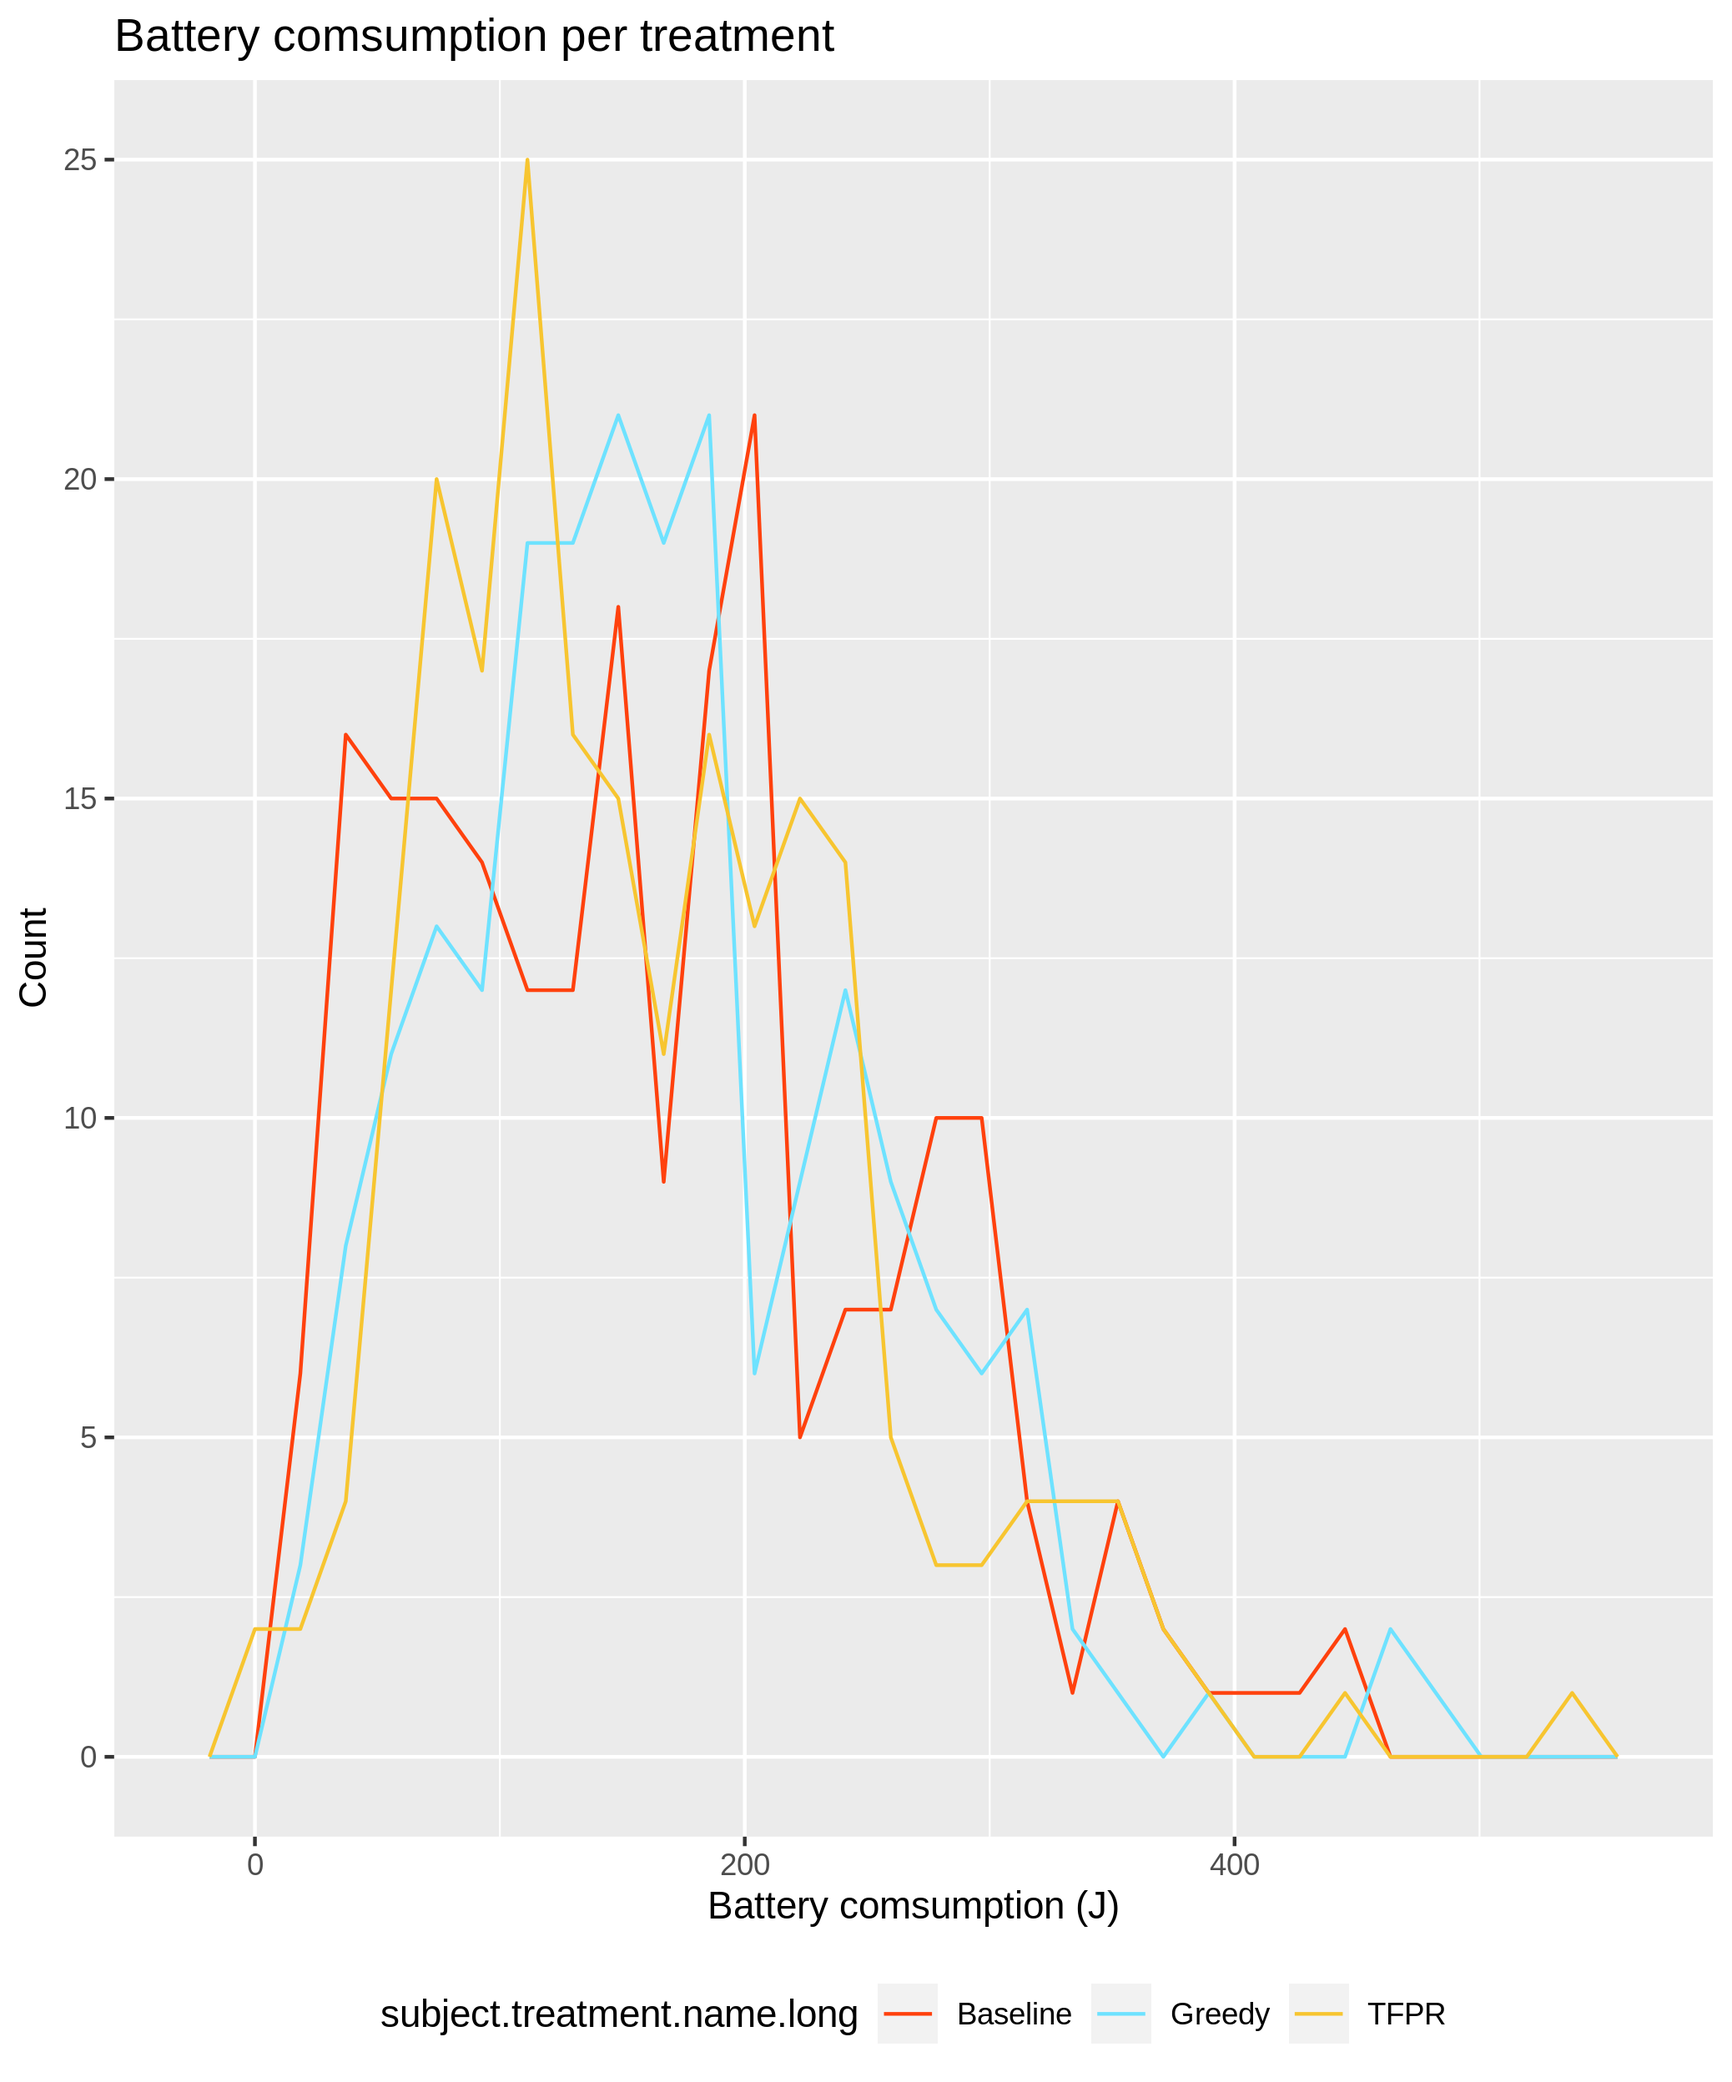
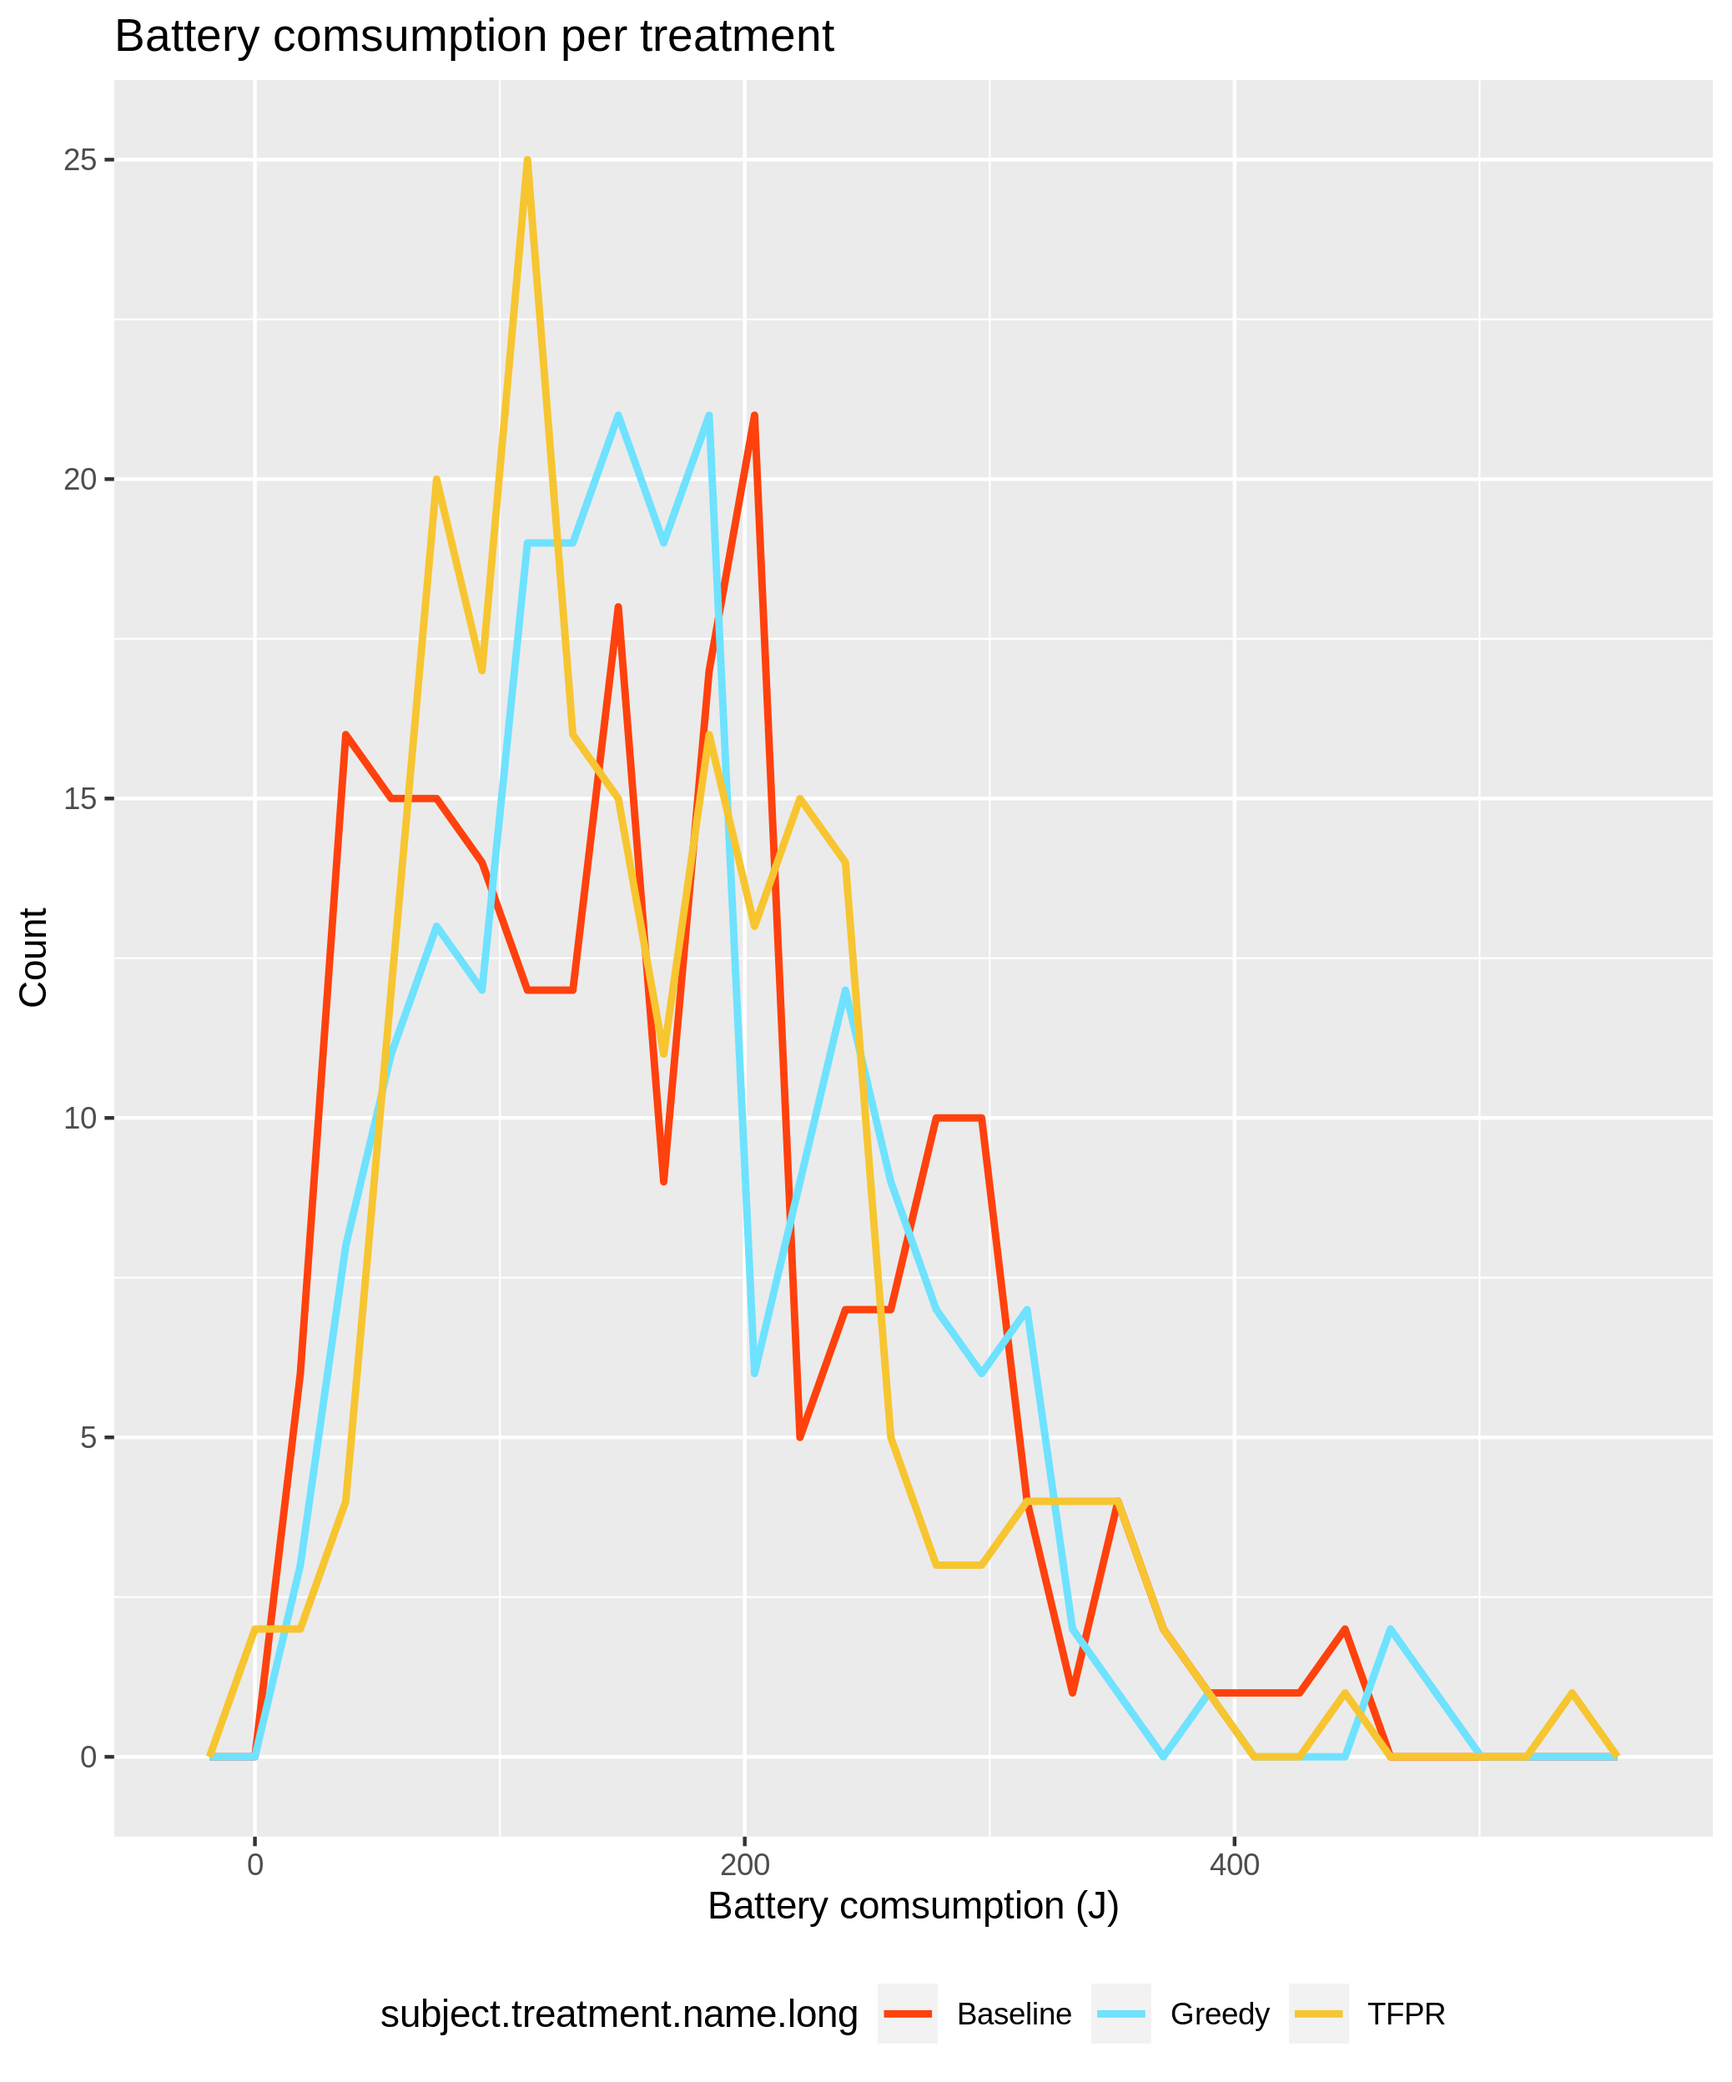
Increase line width

diff --git a/data-analysis/output/rq1/summary-battery.tex b/data-analysis/output/rq1/summary-battery.tex
@@ -1,5 +1,5 @@
 % latex table generated in R 4.0.2 by xtable 1.8-4 package
-% Fri Aug  7 21:34:55 2020
+% Fri Aug  7 21:59:50 2020
 \begin{table}[ht]
 \centering
 \begin{tabular}{rrrrrrr}

diff --git a/data-analysis/output/rq1/summary-cpu.tex b/data-analysis/output/rq1/summary-cpu.tex
@@ -1,5 +1,5 @@
 % latex table generated in R 4.0.2 by xtable 1.8-4 package
-% Fri Aug  7 21:34:55 2020
+% Fri Aug  7 21:59:50 2020
 \begin{table}[ht]
 \centering
 \begin{tabular}{rrrrrrr}

diff --git a/data-analysis/output/rq1/summary-memory.tex b/data-analysis/output/rq1/summary-memory.tex
@@ -1,5 +1,5 @@
 % latex table generated in R 4.0.2 by xtable 1.8-4 package
-% Fri Aug  7 21:34:55 2020
+% Fri Aug  7 21:59:50 2020
 \begin{table}[ht]
 \centering
 \begin{tabular}{rrrrrrr}

diff --git a/data-analysis/output/rq1/summary-duration.tex b/data-analysis/output/rq1/summary-duration.tex
@@ -1,5 +1,5 @@
 % latex table generated in R 4.0.2 by xtable 1.8-4 package
-% Fri Aug  7 21:34:55 2020
+% Fri Aug  7 21:59:50 2020
 \begin{table}[ht]
 \centering
 \begin{tabular}{rrrr}
